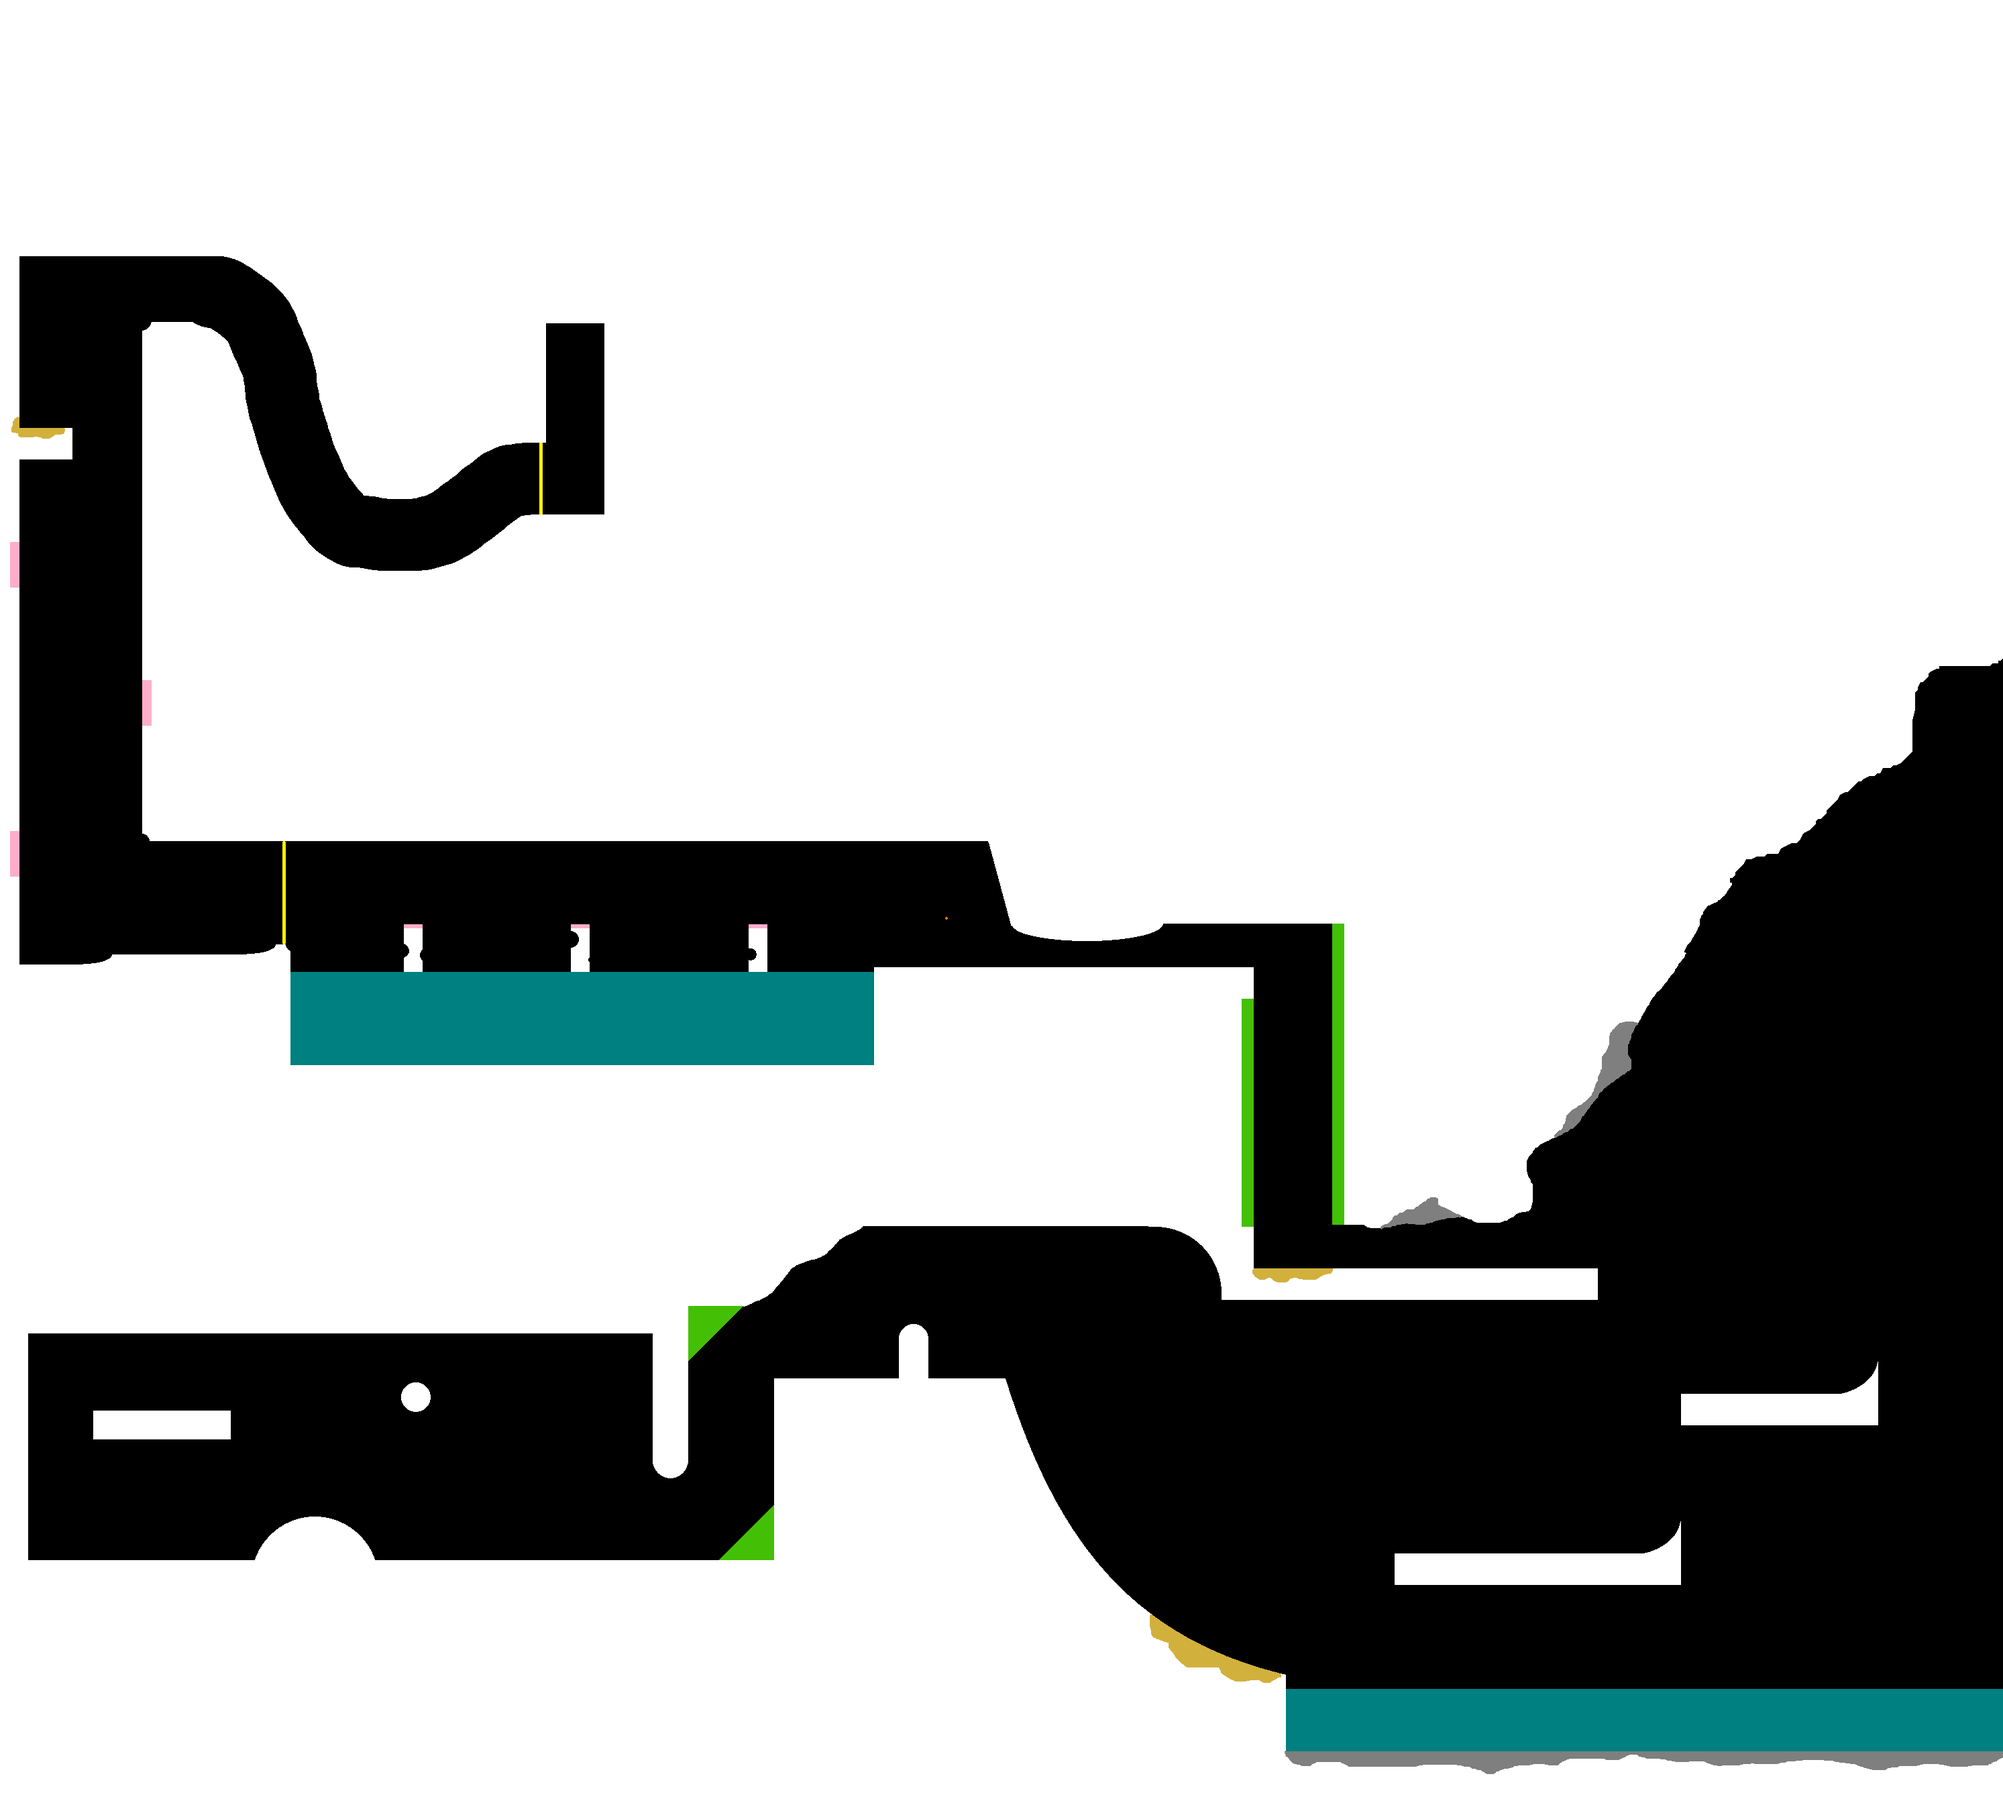
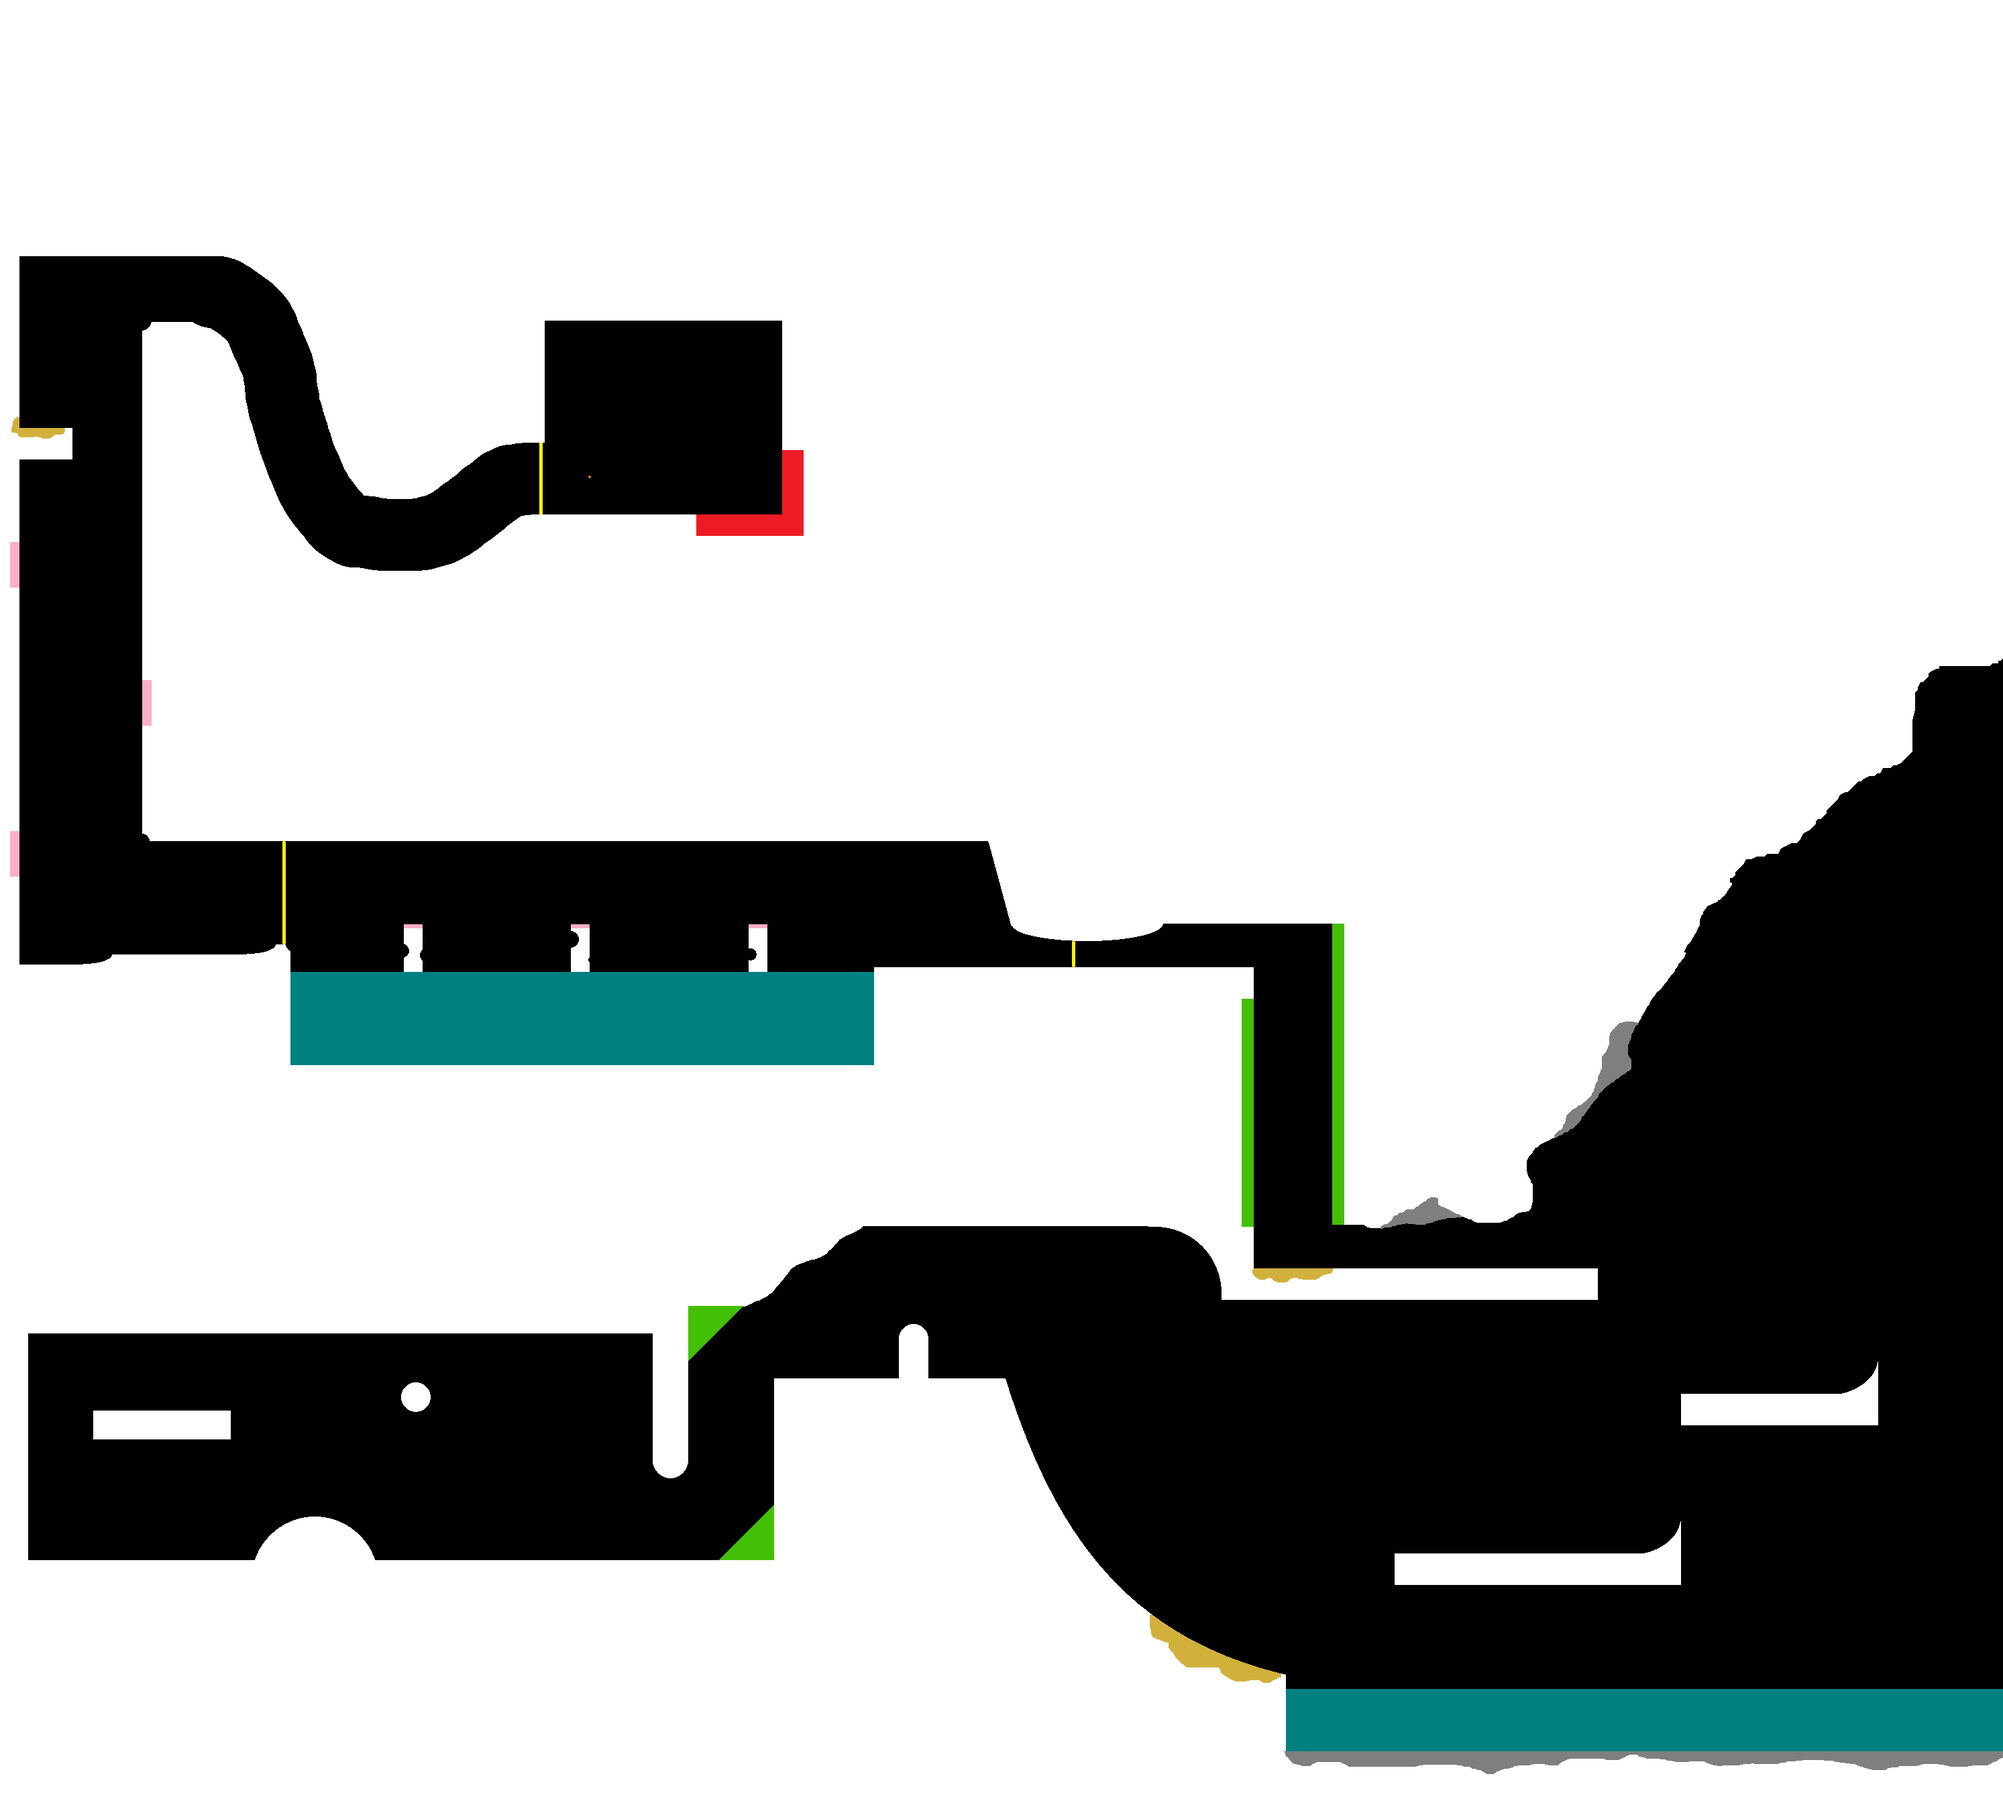
finish tile

Changed region(s): [[0.2803, 0.1556, 0.4049, 0.3111]]

diff --git a/grenadudes/terrain_entity.cpp b/grenadudes/terrain_entity.cpp
@@ -38,6 +38,8 @@ EntityTerrain::EntityTerrain(float scale, std::string filename) {
     txtSlow.setRepeated(true);
     txtSticky.loadFromFile("data/sticky.png");
     txtSlow.setRepeated(true);
+    txtFinish.loadFromFile("data/finish.png");
+    txtFinish.setRepeated(true);
     // load fragment shader
     shdTerrain.loadFromFile("data/terrain.frag", sf::Shader::Fragment);
     // notify
@@ -324,6 +326,7 @@ void EntityTerrain::draw(sf::RenderWindow &window) {
     shdTerrain.setParameter("txtBouncy", txtBouncy);
     shdTerrain.setParameter("txtSlow", txtSlow);
     shdTerrain.setParameter("txtSticky", txtSticky);
+    shdTerrain.setParameter("txtFinish", txtFinish);
     shdTerrain.setParameter("txtData", txtTerrainData);
     shdTerrain.setParameter("sizeX", (float)size.x);
     shdTerrain.setParameter("sizeY", (float)size.y);

diff --git a/grenadudes/terrain_entity.h b/grenadudes/terrain_entity.h
@@ -69,6 +69,7 @@ private:
     sf::Texture txtBouncy;
     sf::Texture txtSlow;
     sf::Texture txtSticky;
+    sf::Texture txtFinish;
     bool render;
     void data_pass();
 };
